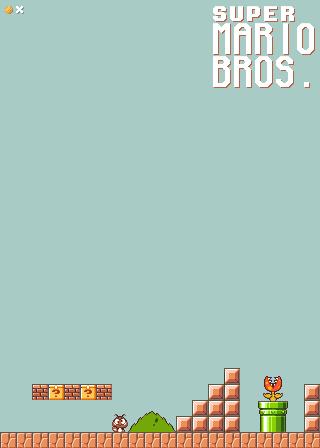
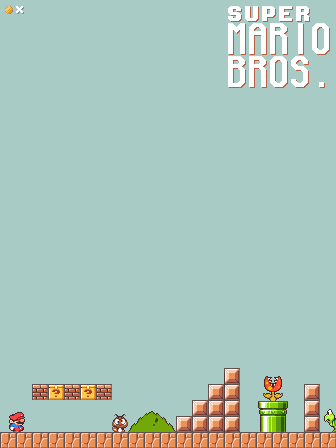
made the game easier

diff --git a/Classes/HelloWorldScene.cpp b/Classes/HelloWorldScene.cpp
@@ -3,7 +3,7 @@
 using namespace cocos2d;
 using namespace CocosDenshion;
 
-#define PTM_RATIO 30
+#define PTM_RATIO 25
 
 HelloWorld::~HelloWorld()
 {
@@ -36,7 +36,6 @@ bool HelloWorld::init() {
 	auto eventListener = EventListenerKeyboard::create();
 	
 	listener->onKeyPressed = CC_CALLBACK_2(HelloWorld::onKeyPressed, this);
-	//listener->onMouseDown = CC_CALLBACK_1(HelloWorld::onMouseMoved, this);
 	
 	this->getEventDispatcher()->addEventListenerWithSceneGraphPriority(listener, this);
     
@@ -83,7 +82,7 @@ bool HelloWorld::init() {
     
     // Create sprite and add it to the layer
 	Sprite *ball = Sprite::create("jellyfish/0001.png");
-	this->marioAnimate = setMarioAnimation(2, "jellyfish/%04d.png");
+	this->marioAnimate = setJellyAnimation(2, "jellyfish/%04d.png");
     ball->setPosition(100, 100);
     ball->setTag(1);
     this->addChild(ball);
@@ -105,7 +104,7 @@ bool HelloWorld::init() {
     b2FixtureDef ballShapeDef;
     ballShapeDef.shape = &circle;
     ballShapeDef.density = 1.0f;
-    ballShapeDef.friction = 0.f;
+    ballShapeDef.friction = 0.0f;
     ballShapeDef.restitution = 1.0f;
     _ballFixture = ballBody->CreateFixture(&ballShapeDef);
     
@@ -160,20 +159,20 @@ bool HelloWorld::init() {
     _world->SetContactListener(_contactListener);
     
 	int counter = 0;
-	int yOffset = 330;
+	int yOffset = 300;
 	int xOffset = 0;
 
-	for(int i = 0; i < 5; i++) {
-		xOffset = 0;
+	for(int i = 0; i < 3; i++) {
+		xOffset = 25;
 		for (int j = 0; j < 10; j++) {
-			static int padding = 20;
+			static int padding = 0;
 
 			// Create block and add it to the layer
-			this->coinAnimate = setCoinAnimation(4, "coin/%04d.png");
 			Sprite* block = Sprite::create("coin/0001.png");
+			this->coinAnimate = setCoinAnimation(4, "coin/%04d.png");
 			//int xOffset = padding+block->getContentSize().width/2+
 			//((block->getContentSize().width+padding)*i);
-			xOffset = xOffset + 30;
+			xOffset = xOffset + 25;
 
 			block->setPosition(xOffset, yOffset);
 			//block->setPosition(xOffset, 250);
@@ -183,8 +182,8 @@ bool HelloWorld::init() {
 
 			// Create block body
 			b2BodyDef blockBodyDef;
-			blockBodyDef.type = b2_dynamicBody;
-			blockBodyDef.position.Set(xOffset / PTM_RATIO, yOffset / PTM_RATIO);
+			blockBodyDef.type = b2_staticBody;
+			blockBodyDef.position.Set(xOffset / PTM_RATIO + 0.2, yOffset / PTM_RATIO);
 			blockBodyDef.userData = block;
 			b2Body *blockBody = _world->CreateBody(&blockBodyDef);
 
@@ -196,17 +195,16 @@ bool HelloWorld::init() {
 			// Create shape definition and add to body
 			b2FixtureDef blockShapeDef;
 			blockShapeDef.shape = &blockShape;
-			blockShapeDef.density = 10.0;
-			blockShapeDef.friction = 0.0;
+			blockShapeDef.density = 10.0f;
+			blockShapeDef.friction = 0.4f;
 			blockShapeDef.restitution = 0.1f;
+			//blockShapeDef.isSensor = true;
 			blockBody->CreateFixture(&blockShapeDef);
 		}
-		yOffset = yOffset - 30;
+		yOffset = yOffset - 25;
     }
     
     //SimpleAudioEngine::getInstance()->playBackgroundMusic("background-music-aac.caf");
-
-	//_mouseJoint->SetTarget(locationWorld);
     
 	this->schedule(schedule_selector(HelloWorld::tick));
 
@@ -248,7 +246,7 @@ void HelloWorld::tick(float dt)
                 b2Vec2 velocity = b->GetLinearVelocity();
                 float32 speed = velocity.Length();
                 
-                if (speed > maxSpeed) {
+				if (speed > maxSpeed) {
                     b->SetLinearDamping(0.5);
                 } else if (speed < maxSpeed) {
                     b->SetLinearDamping(0.0);
@@ -321,31 +319,6 @@ void HelloWorld::tick(float dt)
     }
 }
 
-/*
-void HelloWorld::onTouchesBegan(const std::vector<cocos2d::Touch*>& touches, cocos2d::Event *unused_event)
-{
-    if (_mouseJoint != NULL)
-        return;
-    
-    Touch* myTouch = (!touches.empty()) ? touches[0] : nullptr;
-    Point location = myTouch->getLocationInView();
-    location = CCDirector::getInstance()->convertToGL(location);
-    b2Vec2 locationWorld = b2Vec2(location.x/PTM_RATIO, location.y/PTM_RATIO);
-    
-    if (_paddleFixture->TestPoint(locationWorld)) {
-        b2MouseJointDef md;
-        md.bodyA = _groundBody;
-        md.bodyB = _paddleBody;
-        md.target = locationWorld;
-        md.collideConnected = true;
-        md.maxForce = 1000.0f * _paddleBody->GetMass();
-        
-        _mouseJoint = (b2MouseJoint *)_world->CreateJoint(&md);
-        _paddleBody->SetAwake(true);
-    }
-}*/
-
-
 void HelloWorld::onKeyPressed(EventKeyboard::KeyCode keyCode, cocos2d::Event* event) {
 	if (_mouseJoint == NULL) 
 		return;
@@ -362,14 +335,6 @@ void HelloWorld::onKeyPressed(EventKeyboard::KeyCode keyCode, cocos2d::Event* ev
 			_mouseJoint->SetTarget(locationWorld);
 			break;
 		}
-
-	/*
-	EventMouse* mouseEvent = dynamic_cast<EventMouse*>(event);
-	mouseEvent->getMouseButton();
-	Point location = mouseEvent->getLocationInView();
-	location = CCDirector::getInstance()->convertToGL(location);
-	b2Vec2 locationWorld = b2Vec2(location.x / PTM_RATIO, location.y / PTM_RATIO);
-	//CCLOG("Hey");*/
 }
 
 Animate* HelloWorld::setCoinAnimation(int j, char* filename) {
@@ -382,10 +347,10 @@ Animate* HelloWorld::setCoinAnimation(int j, char* filename) {
 		coinFrames.pushBack(frame);
 	}
 
-	return Animate::create(Animation::createWithSpriteFrames(coinFrames, 0.09f));
+	return Animate::create(Animation::createWithSpriteFrames(coinFrames, 0.05f));
 }
 
-Animate* HelloWorld::setMarioAnimation(int j, char* filename) {
+Animate* HelloWorld::setJellyAnimation(int j, char* filename) {
 	Vector<SpriteFrame*> coinFrames;
 	char str[100];
 	for (int i = 1; i <= j; i++) //Iterate for the number of images you have
@@ -397,45 +362,3 @@ Animate* HelloWorld::setMarioAnimation(int j, char* filename) {
 
 	return Animate::create(Animation::createWithSpriteFrames(coinFrames, 0.09f));
 }
-
-/*void HelloWorld::onMouseMoved(cocos2d::Event* event) {
-	if (_mouseJoint != NULL)
-		return;
-
-	EventMouse* mouseEvent = dynamic_cast<EventMouse*>(event);
-	mouseEvent->getMouseButton();
-	Point location = mouseEvent->getLocationInView();
-	location = CCDirector::getInstance()->convertToGL(location);
-	b2Vec2 locationWorld = b2Vec2(location.x / PTM_RATIO, location.y / PTM_RATIO);
-
-	if (_paddleFixture->TestPoint(locationWorld)) {
-		b2MouseJointDef md;
-		md.bodyA = _groundBody;
-		md.bodyB = _paddleBody;
-		md.target = locationWorld;
-		md.collideConnected = true;
-		md.maxForce = 1000.0f * _paddleBody->GetMass();
-
-		_mouseJoint = (b2MouseJoint *)_world->CreateJoint(&md);
-		_paddleBody->SetAwake(true);
-	}
-}*/
-
-/*
-void HelloWorld::onTouchesCancelled(const std::vector<cocos2d::Touch*>& touches, cocos2d::Event *unused_event)
-{
-    if (_mouseJoint)
-    {
-        _world->DestroyJoint(_mouseJoint);
-        _mouseJoint = NULL;
-    }
-}
-
-void HelloWorld::onTouchesEnded(const std::vector<cocos2d::Touch*>& touches, cocos2d::Event *unused_event)
-{
-    if (_mouseJoint)
-    {
-        _world->DestroyJoint(_mouseJoint);
-        _mouseJoint = NULL;
-    }
-}*/

diff --git a/Classes/HelloWorldScene.h b/Classes/HelloWorldScene.h
@@ -21,12 +21,12 @@ public:
     
     virtual void draw(cocos2d::Renderer *renderer, const cocos2d::Mat4 &transform, uint32_t flags);
 	Animate* setCoinAnimation(int, char*);
-	Animate* setMarioAnimation(int, char*);
+	Animate* setJellyAnimation(int, char*);
     void tick(float dt);
 	void onKeyPressed(EventKeyboard::KeyCode keyCode, cocos2d::Event* event);
-	CREATE_FUNC(HelloWorld);
 	Animate* coinAnimate;
 	Animate* marioAnimate;
+	CREATE_FUNC(HelloWorld);
     
 private:
     b2World* _world;

diff --git a/Classes/AppDelegate.cpp b/Classes/AppDelegate.cpp
@@ -3,7 +3,7 @@
 
 USING_NS_CC;
 
-static cocos2d::Size designResolutionSize = cocos2d::Size(320, 448);
+static cocos2d::Size designResolutionSize = cocos2d::Size(336, 448);
 
 void AppDelegate::initMultiResolution()
 {

diff --git a/Classes/GameOverScene.h b/Classes/GameOverScene.h
@@ -1,10 +1,3 @@
-//
-//  GameOverScene.h
-//
-//  Created by Joseph Wezorek on 8/11/14.
-//
-//
-
 #ifndef spline_GameOverScene_h
 #define spline_GameOverScene_h
 

diff --git a/Classes/GameOverScene.cpp b/Classes/GameOverScene.cpp
@@ -1,10 +1,3 @@
-//
-//  GameOverScene.cpp
-//
-//  Created by Joseph Wezorek on 8/11/14.
-//
-//
-
 #include "GameOverScene.h"
 #include "HelloWorldScene.h"
 
